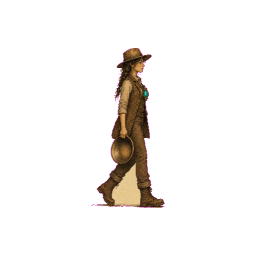
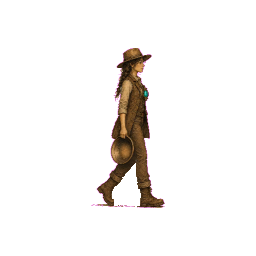
runner(lane-b): town-cast-metrology.md

Changed region(s): [[0.4375, 0.625, 0.5625, 0.8125]]

diff --git a/src/town/TownScene.ts b/src/town/TownScene.ts
@@ -66,7 +66,7 @@ import {
   type TownPropKind,
 } from './townLayout';
 import { readTownName, saveTownName, validateTownName } from './TownNaming';
-import { TOWN_ACTORS, townActorBark, visibleTownActors, type TownActorDefinition, type TownActorId } from './townsfolk';
+import { TOWN_ACTORS, TOWN_CAST_METROLOGY, townActorBark, visibleTownActors, type TownActorDefinition, type TownActorId } from './townsfolk';
 
 const contractArtUrls = {
   theClaimPlate: new URL('../../assets/raw/plate-contract-the-claim.png', import.meta.url).href,
@@ -160,7 +160,9 @@ export type TownDiagnostics = {
     loop: boolean;
     assetSlot: string;
     spriteAspect: number;
+    spriteHeight: number;
     frameKey: string;
+    presentation: 'full_body' | 'portrait_post';
     fullBodyStandIn: boolean;
     moving: boolean;
     motion: { x: number; z: number };
@@ -1612,7 +1614,9 @@ export class TownScene {
           loop: !!actor.loop,
           assetSlot: actor.assetSlot,
           spriteAspect: runtime?.spriteAspect ?? 0,
+          spriteHeight: runtime?.spriteHeight ?? 0,
           frameKey: runtime?.frameKey ?? '',
+          presentation: actor.fullBody ? 'full_body' : 'portrait_post',
           fullBodyStandIn: false,
           moving: runtime?.moving ?? false,
           motion: runtime?.motion ?? { x: 0, z: 0 },
@@ -1829,12 +1833,18 @@ class TownActorRuntime {
     this.group.name = `TownActor:${definition.id}`;
     this.group.position.set(definition.position.x, 0, definition.position.z);
     this.sprite.name = `TownActorSprite:${definition.id}`;
-    if (definition.id === 'prospector' || !definition.fullBody) {
-      this.sprite.scale.setScalar(definition.scale);
-      this.sprite.position.y = definition.scale * 0.55 + 0.08;
+    const worldHeight = definition.scale * TOWN_CAST_METROLOGY.worldUnitsPerHero;
+    if (!definition.fullBody) {
+      const cardSize = worldHeight * 0.58;
+      this.sprite.scale.setScalar(cardSize);
+      this.sprite.position.y = 0.62 + cardSize / 2;
+      this.group.add(createPortraitPost(cardSize));
+    } else if (definition.id === 'prospector') {
+      this.sprite.scale.setScalar(worldHeight);
+      this.sprite.position.y = worldHeight * 0.55 + 0.08;
     } else {
-      this.sprite.scale.set(definition.scale * 1.25, definition.scale * 3, 1);
-      this.sprite.position.y = definition.scale * 1.5 + 0.08;
+      this.sprite.scale.set(worldHeight * 0.42, worldHeight, 1);
+      this.sprite.position.y = worldHeight / 2 + 0.08;
     }
     this.sprite.renderOrder = RenderLayers.companion;
     this.sprite.visible = true;
@@ -1857,6 +1867,10 @@ class TownActorRuntime {
 
   get spriteAspect(): number {
     return this.sprite.scale.y / this.sprite.scale.x;
+  }
+
+  get spriteHeight(): number {
+    return this.sprite.scale.y;
   }
 
   get frameKey(): string {
@@ -1890,17 +1904,18 @@ class TownActorRuntime {
     const phase = actorPhase(this.definition);
     const breathe = Math.sin((elapsed * 0.58 + phase) * Math.PI * 2);
     const sway = Math.sin((elapsed * 0.31 + phase) * Math.PI * 2);
-    this.group.position.y = breathe * 0.035;
-    this.material.rotation = THREE.MathUtils.degToRad(sway * 1.7);
+    this.group.position.y = this.definition.fullBody ? breathe * 0.035 : 0;
+    this.material.rotation = this.definition.fullBody ? THREE.MathUtils.degToRad(sway * 1.7) : 0;
     if (this.definition.id === 'prospector') {
       if (wasMoving && !this.movedThisTick) this.animator?.reset('walk');
       this.animator?.update(this.movedThisTick ? delta : 0, 'walk', this.currentDirection);
     } else if (this.definition.fullBody?.animated && this.movedThisTick) {
       if (this.currentDirection !== previousDirection) this.applyFullBodyFrame(this.frame);
       this.frameElapsed += delta;
-      if (this.frameElapsed >= 0.125) {
-        this.frameElapsed %= 0.125;
-        this.frame = (this.frame + 1) % 8;
+      const frameDuration = 1 / (this.definition.fullBody.fps ?? 8);
+      if (this.frameElapsed >= frameDuration) {
+        this.frameElapsed %= frameDuration;
+        this.frame = (this.frame + 1) % (this.definition.fullBody.frameMap?.length ?? 8);
         this.applyFullBodyFrame(this.frame);
       }
     } else if (this.definition.fullBody?.animated && this.frame !== 0) {
@@ -1920,7 +1935,8 @@ class TownActorRuntime {
     const fullBody = this.definition.fullBody;
     if (this.definition.id === 'prospector' || !fullBody) return;
     const row = directionRow(this.currentDirection);
-    const key = `${fullBody.sheet}-r${row}c${fullBody.animated ? frame : 0}.png`;
+    const sourceFrame = fullBody.frameMap?.[frame] ?? frame;
+    const key = `${fullBody.sheet}-r${row}c${fullBody.animated ? sourceFrame : 0}.png`;
     this.currentFrameKey = key;
     void loadProcessedCharacterTexture(key).then((texture) => {
       if (texture && !this.disposed && this.currentFrameKey === key) {
@@ -1949,10 +1965,28 @@ class TownActorRuntime {
     const height = typeof image?.height === 'number' ? image.height : 0;
     if (!width || !height) return;
     this.fitted = true;
-    const targetHeight = this.definition.scale * 3;
+    const targetHeight = this.definition.scale * TOWN_CAST_METROLOGY.worldUnitsPerHero;
     this.sprite.scale.set(targetHeight * (width / height), targetHeight, 1);
     this.sprite.position.y = targetHeight / 2 + 0.08;
   }
+}
+
+function createPortraitPost(cardSize: number): THREE.Group {
+  const group = new THREE.Group();
+  group.name = 'TownPortraitPost';
+  const wood = new THREE.MeshStandardMaterial({ color: '#6f4528', roughness: 0.9 });
+  const parchment = new THREE.SpriteMaterial({ color: '#f5e6c8', depthWrite: false });
+  const post = new THREE.Mesh(new THREE.BoxGeometry(0.11, 0.72, 0.11), wood);
+  post.position.y = 0.36;
+  const base = new THREE.Mesh(new THREE.BoxGeometry(0.62, 0.08, 0.32), wood);
+  base.position.y = 0.04;
+  const card = new THREE.Sprite(parchment);
+  card.name = 'TownPortraitPostCard';
+  card.scale.setScalar(cardSize * 1.12);
+  card.position.y = 0.62 + cardSize / 2;
+  card.renderOrder = RenderLayers.companion - 0.01;
+  group.add(post, base, card);
+  return group;
 }
 
 function directionRow(direction: RotationDirection): number {
@@ -2734,7 +2768,7 @@ function createSurveyPlot(building: TownBuilding): THREE.Group {
 
 function townActorPlazaPlacement(actor: TownActorDefinition): TownActorDefinition {
   if (actor.loop) return actor;
-  const offset = townPlazaLayout.actorOffsets[actor.id as keyof typeof townPlazaLayout.actorOffsets];
+  const offset = actor.portraitPost?.offset ?? townPlazaLayout.actorOffsets[actor.id as keyof typeof townPlazaLayout.actorOffsets];
   if (!offset) return actor;
   const anchor = townBuildings.find((building) => building.id === actor.anchor);
   if (!anchor) return actor;

diff --git a/src/town/townsfolk.ts b/src/town/townsfolk.ts
@@ -27,7 +27,8 @@ export type TownActorDefinition = {
   facing: RotationDirection;
   scale: number;
   barkRadius: number;
-  fullBody?: { sheet: string; animated: boolean };
+  fullBody?: { sheet: string; animated: boolean; frameMap?: readonly number[]; fps?: number };
+  portraitPost?: { offset: { x: number; z: number } };
   e1Barks: readonly string[];
   loop?: {
     trailId: string;
@@ -40,6 +41,15 @@ export type TownActorDefinition = {
 
 const reverseTrail = (id: string) => [...townTrail(id).points].reverse();
 const ringRoad = townTrail('ring-road').points;
+export const TOWN_CAST_METROLOGY = {
+  worldUnitsPerHero: 1.85,
+  hero: 1,
+  adult: 1,
+  tallAdult: 1.02,
+  elder: 0.96,
+  child: 0.85,
+  prospector: 0.6,
+} as const;
 
 const tavernkeeperPortraitUrl = new URL('../../assets/processed/townsfolk-tavernkeeper.png', import.meta.url).href;
 const storekeeperPortraitUrl = new URL('../../assets/processed/townsfolk-storekeeper.png', import.meta.url).href;
@@ -61,7 +71,7 @@ export const TOWN_ACTORS: readonly TownActorDefinition[] = [
     anchor: 'tavern',
     position: { x: -5.4, z: -6.75 },
     facing: 's',
-    scale: 1.45,
+    scale: TOWN_CAST_METROLOGY.tallAdult,
     barkRadius: 3.2,
     fullBody: { sheet: 'char-tavernkeeper-sheet-walk8', animated: true },
     e1Barks: ['Board is warm. Pick a trail when {town} is ready.', "Coffee's on; contracts wait by the hearth.", 'Every trail starts with a name on the board.'],
@@ -76,7 +86,7 @@ export const TOWN_ACTORS: readonly TownActorDefinition[] = [
     requiresBuilding: 'general_store',
     position: { x: 1.55, z: -8.8 },
     facing: 's',
-    scale: 1.4,
+    scale: TOWN_CAST_METROLOGY.adult,
     barkRadius: 3,
     fullBody: { sheet: 'char-storekeeper-sheet-walk8', animated: true },
     e1Barks: ["Tuesday's wagon brought nails, beans, and better luck.", 'If {town} can count it, I can stock it.', 'The shelf is small; the want is not.'],
@@ -90,7 +100,7 @@ export const TOWN_ACTORS: readonly TownActorDefinition[] = [
     anchor: 'schoolhouse',
     position: { x: -6.65, z: 7.35 },
     facing: 's',
-    scale: 1.46,
+    scale: TOWN_CAST_METROLOGY.elder,
     barkRadius: 5.4,
     fullBody: { sheet: 'char-elder-sheet-walk8', animated: true },
     e1Barks: ['{town} learns faster when the children ask why.', 'Science is patience written clearly.', 'Bring questions; leave with a plan.'],
@@ -105,8 +115,9 @@ export const TOWN_ACTORS: readonly TownActorDefinition[] = [
     requiresBuilding: 'chapel',
     position: { x: -1.55, z: 11.35 },
     facing: 's',
-    scale: 1.42,
+    scale: TOWN_CAST_METROLOGY.tallAdult,
     barkRadius: 3,
+    portraitPost: { offset: { x: 1.45, z: -2.65 } },
     e1Barks: ['The bell is for courage, not judgment.', 'Some days a town needs quiet more than gold.', '{town} has roots now. Tend them.'],
   },
   {
@@ -118,8 +129,9 @@ export const TOWN_ACTORS: readonly TownActorDefinition[] = [
     anchor: 'schoolhouse',
     position: { x: -10.2, z: 6.85 },
     facing: 'se',
-    scale: 1.36,
+    scale: TOWN_CAST_METROLOGY.adult,
     barkRadius: 2.8,
+    portraitPost: { offset: { x: -2.6, z: 0 } },
     e1Barks: ['Chalk today, Steamworks tomorrow.', 'The little ones count waves faster than I do.', 'A good question is a lantern.'],
   },
   {
@@ -131,8 +143,9 @@ export const TOWN_ACTORS: readonly TownActorDefinition[] = [
     anchor: 'assay_office',
     position: { x: 5.55, z: 9.3 },
     facing: 's',
-    scale: 1.36,
+    scale: TOWN_CAST_METROLOGY.adult,
     barkRadius: 3.05,
+    portraitPost: { offset: { x: -2.8, z: -1 } },
     e1Barks: ['Ore talks. My scale makes it honest.', 'Bring the odd bits here before they become trouble.', 'Gold in, proof out. That is the office bargain.'],
   },
   {
@@ -144,7 +157,7 @@ export const TOWN_ACTORS: readonly TownActorDefinition[] = [
     anchor: 'schoolhouse',
     position: { x: -2.8, z: -1.5 },
     facing: 's',
-    scale: 1.15,
+    scale: TOWN_CAST_METROLOGY.child,
     barkRadius: 2.45,
     fullBody: { sheet: 'char-youngster-m-sheet-walk8', animated: true },
     e1Barks: ['Race you from the trough to the office!', 'I found a shiny rock. It is probably science.', 'The Prospector hummed at me. I hummed back.'],
@@ -164,7 +177,7 @@ export const TOWN_ACTORS: readonly TownActorDefinition[] = [
     anchor: 'schoolhouse',
     position: { x: 2.2, z: 1.25 },
     facing: 'sw',
-    scale: 1.14,
+    scale: TOWN_CAST_METROLOGY.child,
     barkRadius: 2.45,
     fullBody: { sheet: 'char-youngster-f-sheet-walk8', animated: true },
     e1Barks: ['We drew the store before it was real.', 'If the Baron comes here, he has to do sums first.', 'I can see the whole square from the rail.'],
@@ -184,9 +197,9 @@ export const TOWN_ACTORS: readonly TownActorDefinition[] = [
     anchor: 'tavern',
     position: { x: -4.35, z: -4.25 },
     facing: 's',
-    scale: 1.12,
+    scale: TOWN_CAST_METROLOGY.child,
     barkRadius: 3.1,
-    fullBody: { sheet: 'char-newsie-mei-sheet-walk8', animated: true },
+    fullBody: { sheet: 'char-newsie-mei-sheet-walk8', animated: true, frameMap: [0, 1, 6, 7], fps: 8 },
     e1Barks: ['EXTRA! Fresh ink by the tavern!', 'Paper is warm. Read it before the wind does.'],
     loop: {
       trailId: 'tavern',
@@ -205,7 +218,7 @@ export const TOWN_ACTORS: readonly TownActorDefinition[] = [
     anchor: 'claim_office',
     position: { x: 8.45, z: -4.55 },
     facing: 's',
-    scale: 1.5,
+    scale: TOWN_CAST_METROLOGY.prospector,
     barkRadius: 6.5,
     fullBody: { sheet: 'char-prospector-sheet-hover8', animated: true },
     e1Barks: ['I am watching {town} from the office steps.', '{town} is logged. I will keep near the claim books.', 'Call from the board; I will follow {town} to the claim.'],

diff --git a/e2e/cast-motion-wiring.spec.ts b/e2e/cast-motion-wiring.spec.ts
@@ -3,8 +3,9 @@ import path from 'node:path';
 import { expect, test, type Page } from '@playwright/test';
 import { META_PROGRESS_KEY } from '../src/game/MetaProgress';
 import { PROFILE_KEY, TOWN_NAME_KEY, profileDataKey } from '../src/game/ProfileStorage';
+import { TOWN_CAST_METROLOGY } from '../src/town/townsfolk';
 
-const artifactDir = path.resolve('artifacts/cast-motion-wiring-e2e');
+const artifactDir = path.resolve('artifacts/cast-metrology');
 
 async function bootTown(page: Page): Promise<void> {
   await page.goto('/');
@@ -41,6 +42,15 @@ test('the plaza cast stands, walks, and faces truthfully without borrowed sheets
   expect(before).toHaveLength(10);
   expect(before.every((actor) => actor.spriteAspect >= 0.7 && actor.spriteAspect <= 1.6)).toBe(true);
   expect(before.every((actor) => !actor.fullBodyStandIn)).toBe(true);
+  const height = (id: string) => before.find((actor) => actor.id === id)!.spriteHeight / TOWN_CAST_METROLOGY.worldUnitsPerHero;
+  expect(height('tavernkeeper')).toBeCloseTo(TOWN_CAST_METROLOGY.tallAdult, 2);
+  expect(height('elder')).toBeCloseTo(TOWN_CAST_METROLOGY.elder, 2);
+  expect(height('youngster_a')).toBeCloseTo(TOWN_CAST_METROLOGY.child, 2);
+  expect(height('prospector')).toBeCloseTo(TOWN_CAST_METROLOGY.prospector, 2);
+  for (const id of ['preacher', 'schoolteacher', 'assay_clerk'] as const) {
+    expect(before.find((actor) => actor.id === id)?.presentation).toBe('portrait_post');
+  }
+  expect(before.find((actor) => actor.id === 'assay_clerk')?.position).toEqual({ x: 6.6, z: 2.4 });
   const presentations = before
     .filter((actor) => actor.id !== 'prospector')
     .map((actor) => actor.frameKey.replace(/-r\d+c\d+\.png$/, ''));
@@ -69,7 +79,7 @@ test('the plaza cast stands, walks, and faces truthfully without borrowed sheets
 
   await page.waitForTimeout(10_000);
   await mkdir(artifactDir, { recursive: true });
-  await page.locator('#game-canvas').screenshot({ path: path.join(artifactDir, `${testInfo.project.name}-plaza-cast-10s.png`) });
+  await page.locator('#game-canvas').screenshot({ path: path.join(artifactDir, `${testInfo.project.name}-plaza-after.png`) });
   await page.getByTestId('town-exit').click();
   await page.getByTestId('start-menu-enter-town').click();
   await expect.poll(() => page.evaluate(() => window.__GR_TOWN_DIAGNOSTICS__?.actors.filter((actor) => actor.visible).every((actor) => actor.loaded && actor.spriteAspect > 0 && actor.spriteAspect <= 1.6))).toBe(true);

diff --git a/assets/LEDGER.md b/assets/LEDGER.md
@@ -253,6 +253,7 @@ Pipeline v1: slot defined → prompt written (batch) → generated (Robin/ChatGP
 42. **art-sprite-production-07-newsie / Mei the Newsie walk8 (`tasks/art-sprite-production-07-newsie.md`).** Status: **RAW + PROCESSED 2026-07-10; DRAINED + FIRE-GATED s292 (review `reviews/art-sprite-production-07-newsie.md`); PENDING-INTEGRATION (unwired — GZ-H1 placeholder tint stands until the scene slice).** A NEW named principal: Mei, a girl ~10-12, Chinese-American gold-rush heritage honored warmly (RULED 2026-07-10, `lore/characters.md` §THE NEWSIE). Landed in `assets/raw/`: `turn-newsie-mei.png` (5-angle A-pose turnaround) + `char-newsie-mei-sheet-walk8.png` (4 rows down/left/right/up × 8 frames, 280×340 cells, 2240×1360, opaque `#ff00ff`, no mirrors). **Extracted this drain** via `node scripts/extract-alpha.mjs --key ff00ff --grid 8x4` → **32/32 cells @512px + `char-newsie-mei-sheet-walk8.frames.json`** in `assets/processed/` (keyed 81.0%, scale=1 — figure fits natively, never upscaled). **Seam-law PASS:** footline y≈334 vs cast 333 (~1px aligned); median content height 291px is the shortest of the walk8 cast (youngster-f 313, tavernkeeper 306) — correct for a child, no size-pop, generous head clearance. Seedance production: 4 stills + 8 videos, 2 takes/direction (honored the <150-credit hard stop: 339→115); selected down t2 / left t1 / right t2 / up t1. QA: fully clothed minor (hard law) ✓, identity + satchel side-pinned held across all angles, warm/dignified heritage read, no firearms/gore/readable-text/extra-characters. Evidence promoted to `assets/motion-pilot/production-newsie-mei/` (RUN-NOTE + stills/take-comparison contact sheets + generation/walk8 summary logs; full raw videos/frames remain in `worktrees/art/` per F-newsie-3). Gates: tsc clean + build green (345ms); zero `src`/layer-contract/e2e/spec touched. Findings (all non-blocking): F-newsie-1 satchel handedness label ("her left" reads viewer-left/her-right; consistently pinned — owner/wire-slice eyeball), F-newsie-2 residual key speckle 0.0316% area on newspaper edges (RUN-NOTE caveat), F-newsie-3 full raw evidence unpromoted (sandbox cp-gate). **Wire slice** (when scheduled): matte/verify key, add a `char.newsie` entry to `assets/layer-contracts/characters.v2.json`, then GZ-H1 tint swap → at THAT point she becomes player-visible and earns a gazette item.
 43. **art-sheet-verdict-fixes / owner verdict retake attempt.** Status: **BLOCKED / NOT READY 2026-07-11.** Evidence lives in `assets/motion-pilot/production-hero-v4/RUN-NOTE.md`. Native image_gen produced a hero v4 belt-pan four-view source sheet (`production-hero-v4/hero-v4-native-four-view-reference.png`, also copied as `assets/raw/turn-hero-v4-belt-pan.png`), and four correctly parameterized Seedance 2.0 hero takes were generated (1:1, 4s, 720p, no audio) with the belt-pan clause verbatim. The composed v4 inspection sheet was rejected: down/left/right retain parchment/key crumbs, and up turns front-facing instead of back view. Active `assets/raw/char-hero-sheet-walk8.png` was restored from `production-hero-v3`; no `src/` or processed assets were touched. Youngster-M retakes 4-6 and existing tavernkeeper evidence did not provide compliant non-mirrored opposite-side rows; deterministic flips were refused because the task explicitly says no mirrors. Credit log: 2024 -> 1880.75 credits, still above the 1200 floor. Required next attempt: native start stills for the missing opposite-side profile rows, then Seedance best-of-3 from those starts.
 44. **art-saga-library-e10 / codex-art-run-e10 (`assets/raw/codex-art-run-e10.md`) — Epoch 10 Deep Sky saga-library — THE CAPSTONE; the reference library completes E1→E10.** Status: **RAW GENERATED 2026-07-11; DRAINED + FIRE-QA'd s357; PENDING-CONSUMPTION.** Eleven full-bleed 1672×941 RGB raws landed in `assets/raw/`: `kit-era-10.png` (RETAKE — superseded the prior exterior-berth plate, which failed the deck-per-era law; the old plate is preserved WITHOUT DELETION in git history at commit `9a4c7d63` — `git show 9a4c7d63:assets/raw/kit-era-10.png`; the sandbox blocked materializing a `-superseded.png` via redirect, an attended session may do so; new plate = the interior-exterior Ark cutaway with ten era-specific deck grammars, deep-ink star-stipple + parchment-gold nebula veils), `plate-e10-long-table.png`, `plate-e10-charter-press-hall.png`, `plate-e10-pan-shrine.png`, `plate-e10-enemy-static-motes.png`, `plate-e10-boss-the-quiet.png`, `plate-e10-starlight-pan.png`, `codex-hero-e10.png`, `codex-prospector-e10.png`, `plate-e10-townsfolk-era.png`, and `plate-e10-worlds.png`. Native Codex `image_gen` only (no Higgsfield/paid-credit path); 1 retake used of 2 max (the kit-era-10 supersession). **s357 FIRE-QA — independent visual verification of ALL 11 (not inherited from the run note):** every plate measured 1672×941 RGB full-bleed; sepia engraved Frontier-Ledger style anchor held; ZERO readable letters/numbers/logos/watermarks; NO firearms (starlight-pan = the E1 shallow-pan silhouette held in a two-handed panning posture through a star-stream, never a gun); NO gore/horror; the Static reads as ABSENCE of ink / un-inked parchment (enemy-motes = pale blank blobs eating the engraving; boss "the Quiet" = color draining outward in concentric rings, warm never horror); identity chains held vs E9 (Hero = elder stateswoman face/braid/hat/brass-badge at the accompanied-child charter handover; Prospector = round brass hover chassis + teal core + E1 pan); minors fully clothed (townsfolk-era quilted suits); the child-height lever is the charter-press-hall focal point with blank un-inked paper rolls (no type). Reference tier = full-bleed, no `#ff00ff` key → NO extraction/seam-law/wiring (matches e4/e8/e9 saga-library precedent). No `src/`, processed assets, layer-contract edits, specs, reviews, e2e, or build impact by design (`kit-era-N` is a `data-art-key` CSS hook only — sole live ref is `kit-era-2`; `assets/raw/` is unbundled reference art). Run digest: `assets/raw/codex-art-run-e10.md`. **THE REFERENCE LIBRARY IS COMPLETE, E1→E10.**
+44. **town-cast-metrology / walk8 foot cleanup.** Status: **PROCESSED FIX 2026-07-12.** Removed opaque cream extraction wedges between the boots in hero east-row cells `char-hero-sheet-walk8-r2c0.png` and `char-hero-sheet-walk8-r2c3.png`, plus Mei's selected opposite-stride cell `char-newsie-mei-sheet-walk8-r1c6.png`, with bounded flood-fill alpha repairs. The other cells were unchanged. Eight-frame hero strip evidence lives in `artifacts/cast-metrology/hero-walk8-feet-clean.png`.
 
 ## Process notes
 
